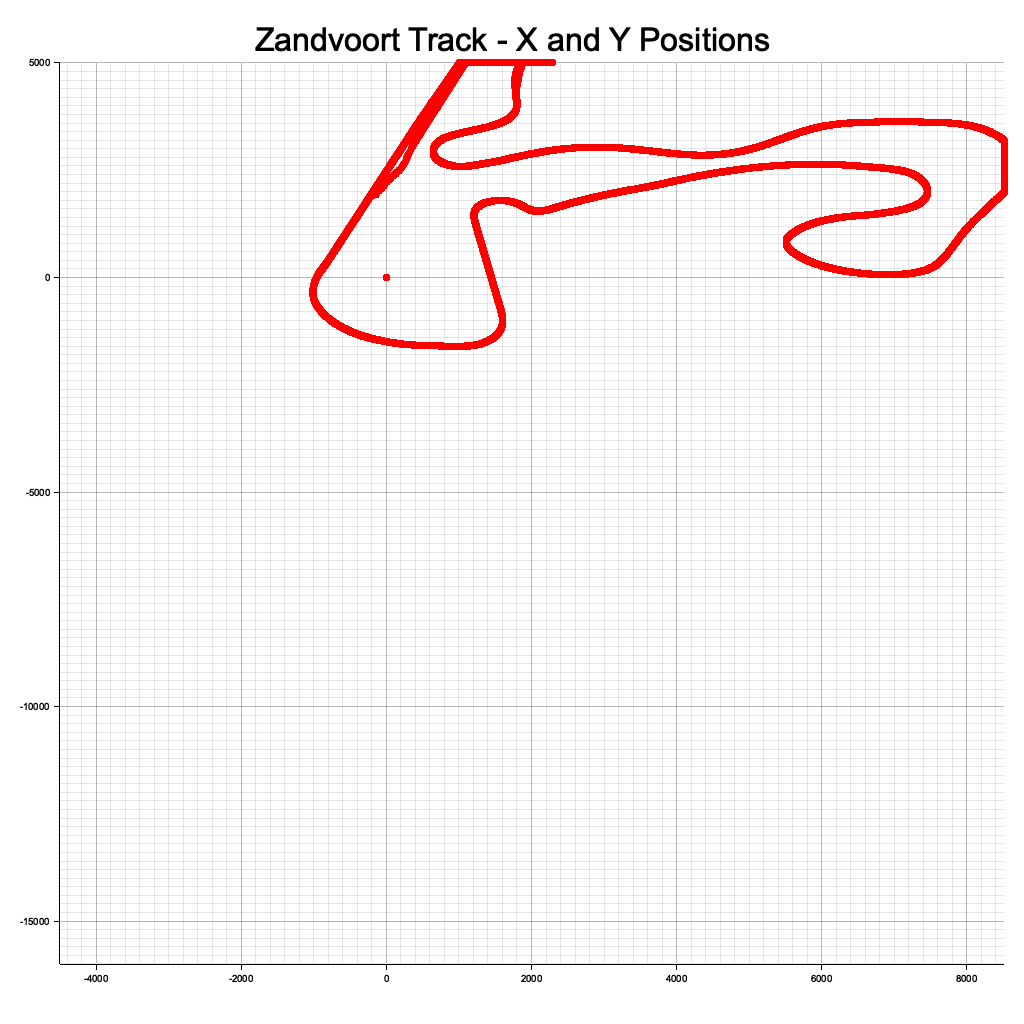
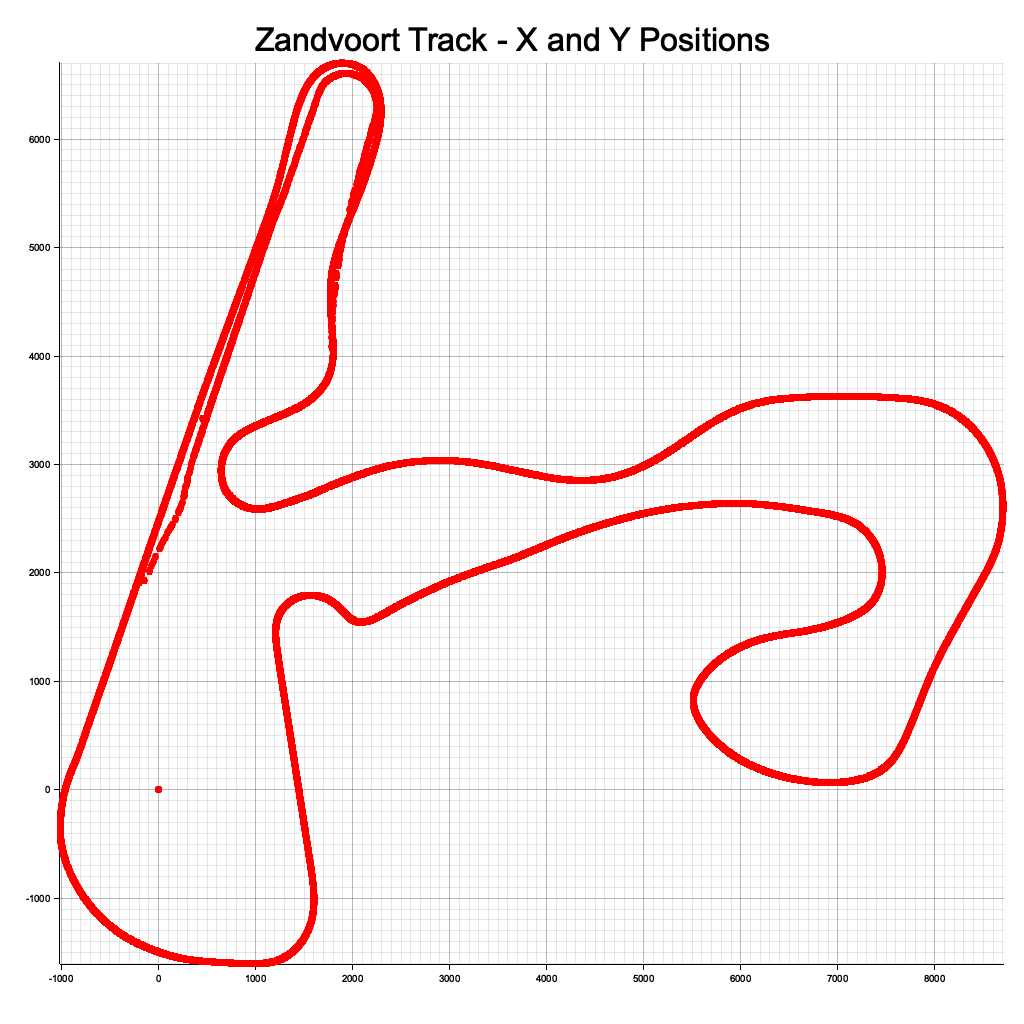
Correct plot

Changed region(s): [[0.0312, 0.0312, 1.0, 0.9688]]

diff --git a/src/main.rs b/src/main.rs
@@ -6,8 +6,7 @@ use std::error::Error;
 #[derive(Debug, Deserialize)]
 struct Location {
     x: i32,
-    y: i32, // Optional for future use
-    date: String,  // Optional for sorting
+    y: i32,
 }
 
 fn main() -> Result<(), Box<dyn Error>> {
@@ -17,27 +16,32 @@ fn main() -> Result<(), Box<dyn Error>> {
     // Create a reader for the CSV
     let mut rdr = Reader::from_path(csv_file_path)?;
 
-    // Load data and sort by 'date' to maintain proper order
-    let mut locations: Vec<Location> = rdr.deserialize().collect::<Result<_, _>>()?;
-    locations.sort_by(|a, b| a.date.cmp(&b.date));  // Ensure proper sequence
+    // Load data without sorting by 'date'
+    let locations: Vec<Location> = rdr.deserialize().collect::<Result<_, _>>()?;
 
     // Set up plot with adjusted Cartesian limits
     let root = BitMapBackend::new("zandvoort_track_adjusted.png", (1024, 1024)).into_drawing_area();
     root.fill(&WHITE)?;
+
+    // Adjust the limits based on the data range
+    let x_min = locations.iter().map(|loc| loc.x).min().unwrap_or(-5000);
+    let x_max = locations.iter().map(|loc| loc.x).max().unwrap_or(5000);
+    let y_min = locations.iter().map(|loc| loc.y).min().unwrap_or(-5000);
+    let y_max = locations.iter().map(|loc| loc.y).max().unwrap_or(5000);
 
     let mut chart = ChartBuilder::on(&root)
         .caption("Zandvoort Track - X and Y Positions", ("sans-serif", 40))
         .margin(20)
         .x_label_area_size(40)
         .y_label_area_size(40)
-        .build_cartesian_2d(-4500..8500, -16000..5000)?;  // Adjusted limits
+        .build_cartesian_2d(x_min..x_max, y_min..y_max)?;
 
     chart.configure_mesh().draw()?;
 
     // Plot each point with a larger size for better visibility
     chart.draw_series(PointSeries::of_element(
         locations.iter().map(|loc| (loc.x, loc.y)),
-        3,  // Larger point size
+        3, // Larger point size
         &RED,
         &|coord, size, style| {
             EmptyElement::at(coord) + Circle::new((0, 0), size, style.filled())
